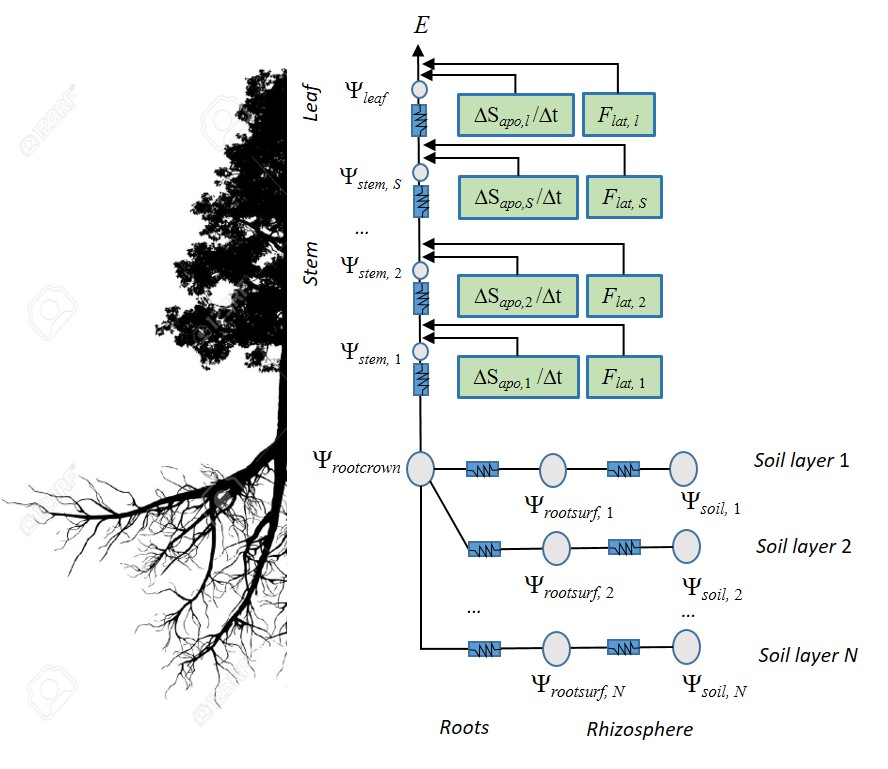
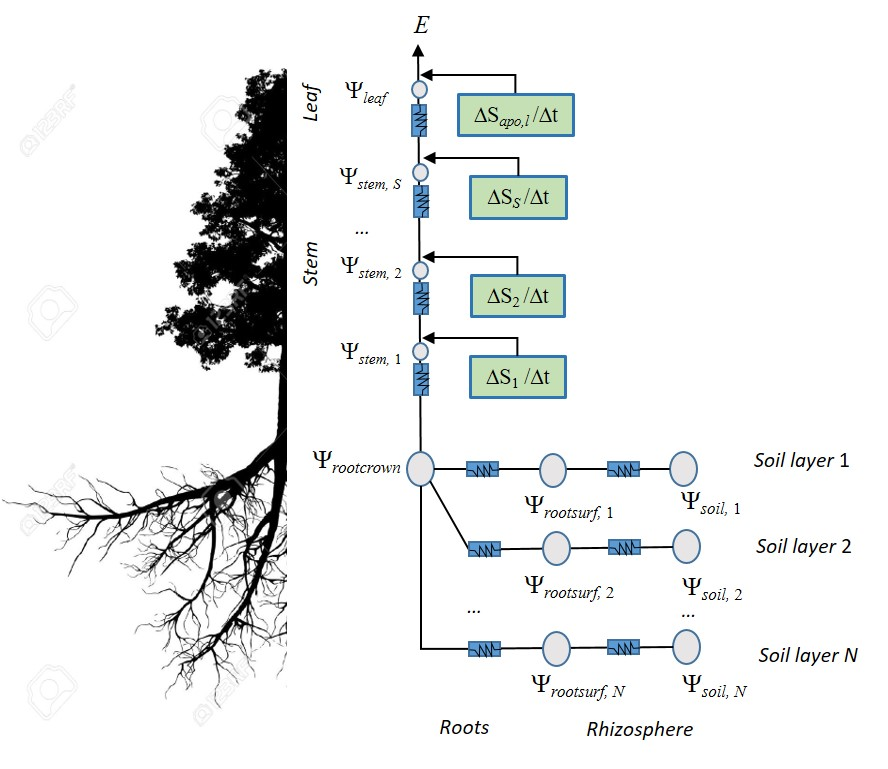
hydraulic function

diff --git a/src/spwb.cpp b/src/spwb.cpp
@@ -747,11 +747,15 @@ List spwbDay2(List x, List soil, double tmin, double tmax, double rhmin, double 
         NumericVector psiRoot;
         NumericMatrix ElayersMat;
         NumericVector fittedE;
+        NumericVector psiLeaf;
+        NumericMatrix newPsiStem;
         
         if(!capacitance) {
           sFunction = supply[c];
           Erootcrown = sFunction["E"];
           psiRoot = sFunction["psiRoot"];
+          psiLeaf = sFunction["psiLeaf"];
+          newPsiStem = Rcpp::as<Rcpp::NumericMatrix>(sFunction["psiStem"]);
           ElayersMat = Rcpp::as<Rcpp::NumericMatrix>(sFunction["ERhizo"]);
           fittedE = sFunction["E"];
         } else {
@@ -768,6 +772,8 @@ List spwbDay2(List x, List soil, double tmin, double tmax, double rhmin, double 
                                                    Vleaf[c], LeafAF[c], LeafPI0[c], LeafEPS[c],
                                                    tstep);
           fittedE = sFunction["E"];
+          psiLeaf = sFunction["psiLeaf"];
+          newPsiStem = Rcpp::as<Rcpp::NumericMatrix>(sFunction["psiStem"]);
         }
  
 
@@ -853,15 +859,10 @@ List spwbDay2(List x, List soil, double tmin, double tmax, double rhmin, double 
           
 
           //Update symplastic storage and PLC
-          //Update storage and PLC
           psiRootVEC[c] = psiRoot[iPM]; 
-          EinstVEC[c] = Eaverage;
+          EinstVEC[c] = fittedE[iPM];
           PLC(c,n) = NA_REAL;
           RWCssteminst(c,n) = NA_REAL;
-          
-          NumericVector psiLeaf = sFunction["psiLeaf"];
-          NumericMatrix newPsiStem = sFunction["psiStem"];
-
           psiLeafVEC[c] = psiLeaf[iPM];
           RWCsleafVEC[c] = symplasticRelativeWaterContent(psiLeafVEC[c], LeafPI0[c], LeafEPS[c]);
           psiStemMAT(c,_) = newPsiStem(iPM,_);
@@ -870,36 +871,13 @@ List spwbDay2(List x, List soil, double tmin, double tmax, double rhmin, double 
             PLCstemMAT(c,i) = std::max(PLCstemMAT(c,i), 1.0 - apoplasticRelativeWaterContent(psiStemMAT(c,i), VCstem_c[c], VCstem_d[c]));
             RWCsstemMAT(c,i) = symplasticRelativeWaterContent(psiStemMAT(c,i), StemPI0[c], StemEPS[c]);
           }
+          
+          //Store (for output) instantaneous leaf, stem and root potential, plc and rwc values
           PLC(c,n) = sum(PLCstemMAT(c,_))/((double)nseg);
           RWCssteminst(c,n) = RWCsstemMAT(c,nseg-1);
-          
-          // if(!NumericVector::is_na(Edif)) {
-          //   psiLeafVEC[c] = E2psiAGCAP["psiLeaf"];
-          //   RWCsleafVEC[c] = E2psiAGCAP["RWCsympleaf"];
-          //   NumericVector newPLCstem = E2psiAGCAP["PLCstem"];
-          //   NumericVector newRWCsympstem = E2psiAGCAP["RWCsympstem"];
-          //   NumericVector newPsiStem = E2psiAGCAP["psiStem"];
-          //   psiStemMAT(c,_) = newPsiStem;
-          //   PLCstemMAT(c,_) = newPLCstem;    
-          //   RWCsstemMAT(c,_) = newRWCsympstem;
-          //   int nseg = newPLCstem.size();
-          //   PLC(c,n) = newPLCstem[nseg-1]; //Store the PLC and RWCsym values of the distal-most segment
-          //   RWCssteminst(c,n) = newRWCsympstem[nseg-1];
-          // } else {
-          // }
-          
-          // if(verbose) {
-          //   Rcout<<c<<" " <<n<<" E rc size "<< Erootcrown.size()<< " E size"<< fittedE.size()<<" iPMSunlit"<<iPMSunlit<<"iPMShade"<<iPMShade<<"iPM"<<iPM;
-          //   Rcout<< "RWCleafini"<< RWCsleafVEC[c] << " PsiLeafini"<<psiLeafVEC[c]<< " PsiLeaffin";
-          //   Rcout<<newPsiLeafVec[iPM]<<" new PLC "<< newPLCstem(iPM,0)<< " Einst" << Einst(c,n)<<"\n";
-          // }
-          
-          
-          //Store instantaneous leaf, stem and root potential
           PsiLeafinst(c,n) = psiLeafVEC[c]; 
           PsiSteminst(c,n) = psiStemMAT(c, nseg-1); 
           PsiRootinst(c,n) = psiRootVEC[c]; 
-          //Store instantaneous leaf rwc
           RWCsleafinst(c,n) = RWCsleafVEC[c];
           
           //Copy transpiration from connected layers to transpiration from soil layers
@@ -914,31 +892,48 @@ List spwbDay2(List x, List soil, double tmin, double tmax, double rhmin, double 
           if(verbose) Rcout<<"NS!";
         }
       } else { // If not connected to any soil layer
-        //Flow (cuticular conductance) TO BE IMPROVED (iterative procedure to find flow, VPD and leaf temperature given Gwmin)
-        double minFlow = std::max(0.0,1000.0*(Gwmin[c]*(meteoland::utils_saturationVP(std::max(0.0,Tcan[n]))-vpatm))/Patm);
-        
+
         //Sunlit photosynthesis
         double absRadSL = absSWR_SL[c] + LWR_emmcan*LAI_SL(c,n);
         double QSL = irradianceToPhotonFlux(absPAR_SL[c]);
-        double leafTempSL = leafTemperature(absRadSL/ LAI_SL(c,n), Tcan[n], zWind[c], minFlow, leafWidth[c]);
+        //Flow (cuticular conductance): iterative procedure to find flow, VPD and leaf temperature given Gwmin
+        double ESLbk = std::max(0.0,1000.0*(Gwmin[c]*(meteoland::utils_saturationVP(std::max(0.0,Tcan[n]))-vpatm))/Patm);
+        double leafTempSL = leafTemperature(absRadSL/ LAI_SL(c,n), Tcan[n], zWind[c], ESLbk, leafWidth[c]);
         double leafVPDSL = (meteoland::utils_saturationVP(std::max(0.0,leafTempSL))-vpatm);
-        double GwSL = Patm*(minFlow/1000.0)/leafVPDSL; //Transform flow from mmol to mol
-        double AgSL = leafphotosynthesis(QSL, Catm, GwSL/1.6, std::max(0.0,leafTempSL), Vmax298SL, Jmax298SL);
+        double ESL = std::max(0.0,1000.0*(Gwmin[c]*leafVPDSL)/Patm);
+        while(std::abs(ESL-ESLbk)> 0.000001) {
+          leafTempSL = leafTemperature(absRadSL/ LAI_SL(c,n), Tcan[n], zWind[c], ESL, leafWidth[c]);
+          leafVPDSL = meteoland::utils_saturationVP(std::max(0.0,leafTempSL))-vpatm;
+          ESLbk = ESL;
+          ESL = std::max(0.0,1000.0*(Gwmin[c]*leafVPDSL)/Patm);
+        }
+        double AgSL = leafphotosynthesis(QSL, Catm, Gwmin[c]/1.6, std::max(0.0,leafTempSL), Vmax298SL, Jmax298SL);
         double AnSL = AgSL - 0.015*VmaxTemp(Vmax298SL, leafTempSL);
 
         //Shade photosynthesis
         double absRadSH = absSWR_SH[c] + LWR_emmcan*LAI_SH(c,n);
         double QSH = irradianceToPhotonFlux(absPAR_SH[c]);
-        double leafTempSH = leafTemperature(absRadSH/LAI_SH(c,n), Tcan[n], zWind[c], minFlow, leafWidth[c]);
+        //Flow (cuticular conductance): iterative procedure to find flow, VPD and leaf temperature given Gwmin
+        double ESHbk = std::max(0.0,1000.0*(Gwmin[c]*(meteoland::utils_saturationVP(std::max(0.0,Tcan[n]))-vpatm))/Patm);
+        double leafTempSH = leafTemperature(absRadSH/ LAI_SH(c,n), Tcan[n], zWind[c], ESHbk, leafWidth[c]);
         double leafVPDSH = (meteoland::utils_saturationVP(std::max(0.0,leafTempSH))-vpatm);
-        double GwSH = Patm*(minFlow/1000.0)/leafVPDSH; //Transform flow from mmol to mol
-        double AgSH = leafphotosynthesis(QSH, Catm, GwSH/1.6, std::max(0.0,leafTempSH), Vmax298SH, Jmax298SH);
+        double ESH = std::max(0.0,1000.0*(Gwmin[c]*leafVPDSH)/Patm);
+        while(std::abs(ESH-ESHbk)> 0.000001) {
+          leafTempSH = leafTemperature(absRadSH/ LAI_SH(c,n), Tcan[n], zWind[c], ESH, leafWidth[c]);
+          leafVPDSH = meteoland::utils_saturationVP(std::max(0.0,leafTempSH))-vpatm;
+          ESHbk = ESH;
+          ESH = std::max(0.0,1000.0*(Gwmin[c]*leafVPDSH)/Patm);
+        }
+        double AgSH = leafphotosynthesis(QSH, Catm, Gwmin[c]/1.6, std::max(0.0,leafTempSH), Vmax298SH, Jmax298SH);
         double AnSH = AgSH - 0.015*VmaxTemp(Vmax298SH, leafTempSH);
         
 
+        //Average flow
+        double Eaverage = (ESL*LAI_SL(c,n) + ESH*LAI_SH(c,n))/(LAI_SL(c,n) + LAI_SH(c,n));
+        
         //Get leaf status
-        GW_SH(c,n)= GwSH;
-        GW_SL(c,n)= GwSL;
+        GW_SH(c,n)= Gwmin[c];
+        GW_SL(c,n)= Gwmin[c];
         VPD_SH(c,n)= leafVPDSH;
         VPD_SL(c,n)= leafVPDSL;
         Temp_SH(c,n)= leafTempSH;
@@ -949,12 +944,12 @@ List spwbDay2(List x, List soil, double tmin, double tmax, double rhmin, double 
         photosynthesis[c] +=pow(10,-6)*12.01017*Aninst(c,n)*tstep; 
         
 
-        Einst(c,n) = minFlow*0.001*0.01802*LAIphe[c]*tstep; //Scale from instantaneous flow to water volume in the time step
+        Einst(c,n) = Eaverage*0.001*0.01802*LAIphe[c]*tstep; //Scale from instantaneous flow to water volume in the time step
 
         //Add to daily plant cohort transpiration
         Eplant[c] +=Einst(c,n);
         
-        List sAb = E2psiAbovegroundCapacitanceDisconnected(minFlow, 
+        List sAb = E2psiAbovegroundCapacitanceDisconnected(Eaverage, 
                                                 psiStemPrev, PLCStemPrev, RWCStemPrev, 
                                                 psiLeafPrev, rwcsleafPrev,
                                                 VCstem_kmax[c], VCstem_c[c], VCstem_d[c],

diff --git a/src/modelInput.cpp b/src/modelInput.cpp
@@ -37,12 +37,12 @@ List spwbInput(DataFrame above, NumericMatrix V, List soil, DataFrame SpParams, 
   NumericVector LAI_dead = above["LAI_dead"];
   NumericVector H = above["H"];
   NumericVector CR = above["CR"];
-  
   String transpirationMode = control["transpirationMode"];
   if((transpirationMode!="Simple") & (transpirationMode!="Complex")) stop("Wrong Transpiration mode ('transpirationMode' should be either 'Simple' or 'Complex')");
 
   int numStemSegments = control["nStemSegments"];
-
+  bool capacitance = control["capacitance"];
+  
   String soilFunctions = control["soilFunctions"]; 
   if((soilFunctions!="SX") & (soilFunctions!="VG")) stop("Wrong soil functions ('soilFunctions' should be either 'SX' or 'VG')");
   
@@ -297,7 +297,12 @@ List spwbInput(DataFrame above, NumericMatrix V, List soil, DataFrame SpParams, 
                               _["VGrhizo_kmax"] = VGrhizo_kmax,
                               _["VCroot_kmax"] = VCroot_kmax);
     List paramsCanopy = List::create(_["gdd"] = 0,_["Temp"] = NA_REAL);
-    input = List::create(_["control"] = clone(control),
+    List ctl = clone(control);
+    if(capacitance) {
+      ctl["hydraulicCostFunction"] = 2;
+      warning("Hydraulic cost function set to '2'.");
+    }
+    input = List::create(_["control"] = ctl,
                          _["canopy"] = paramsCanopy,
                          _["cohorts"] = cohortDescdf,
                          _["above"] = plantsdf,
